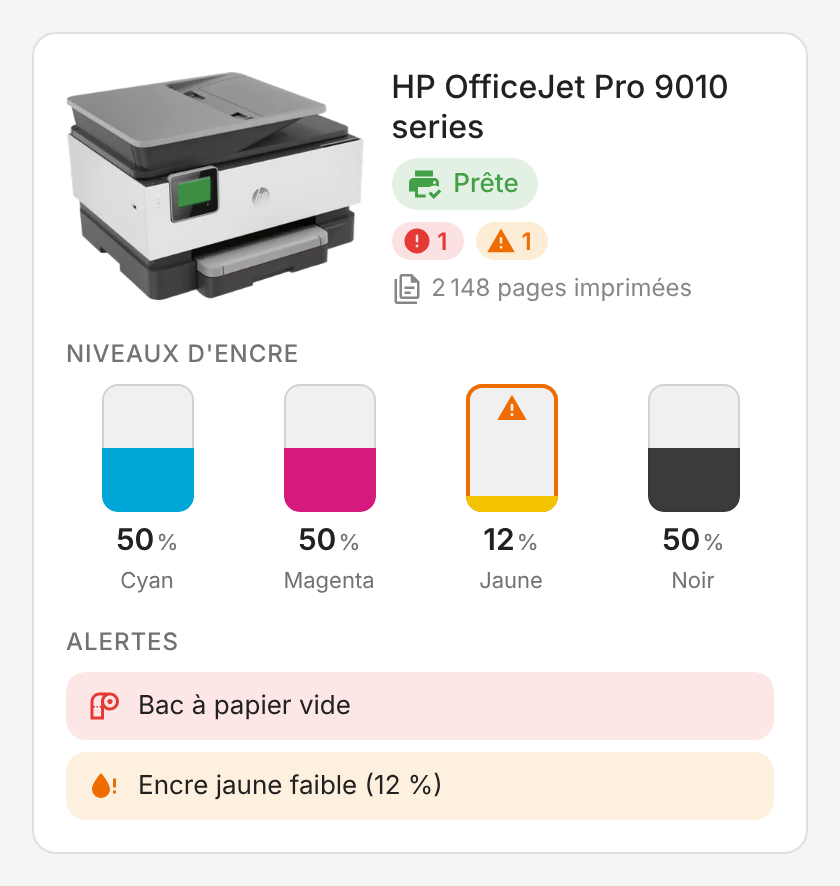
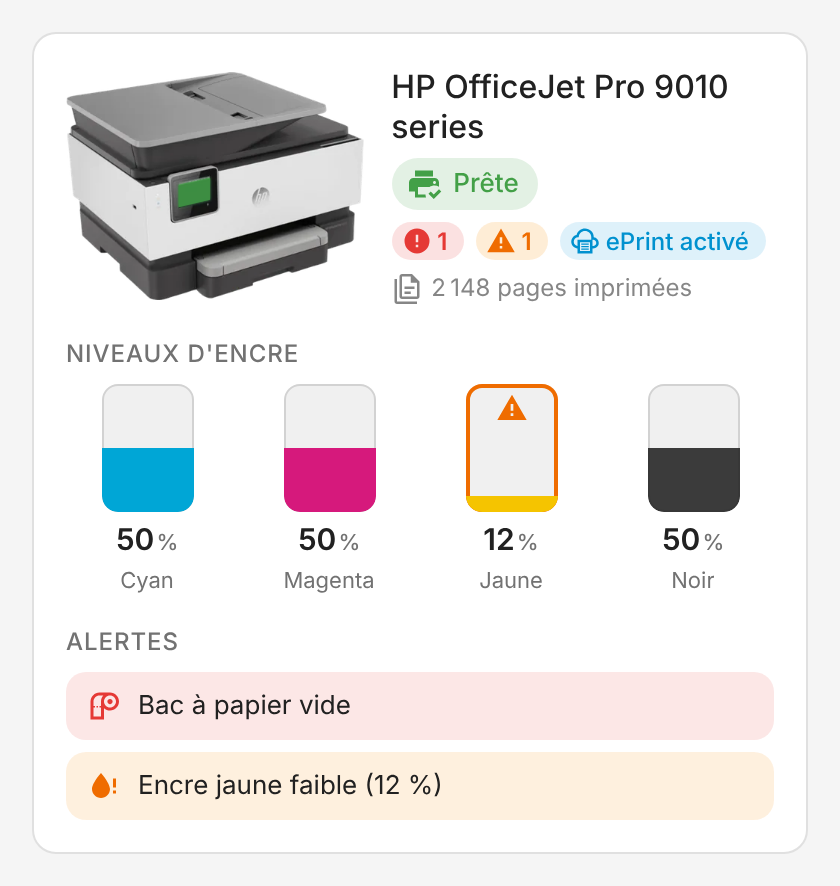
Add ePrint status — v1.1.0
Shows the ePrint state as a chip under the printer status (on, off or
not registered), from the HP Printer integration's ePrint status and
registration sensors. New show_eprint option and eprint /
eprint_registration overrides, also in the visual editor.

Claude-Session: https://claude.ai/code/session_01QW9vpQr3bGi4NSbXMm6A18

Changed region(s): [[0.65, 0.2438, 0.9286, 0.3047]]

diff --git a/dist/hp-printer-card.js b/dist/hp-printer-card.js
@@ -1,4 +1,4 @@
-var HP_PRINTER_CARD_VERSION = '1.0.0';
+var HP_PRINTER_CARD_VERSION = '1.1.0';
 
 // ── i18n ──────────────────────────────────────────────────────────────────────
 var HpI18n = {
@@ -71,6 +71,12 @@ var HpI18n = {
     en_status: 'Statut',
     en_ipp: 'Capteur IPP (alertes papier, capot…)',
     en_total_pages: 'Total de pages',
+    en_eprint: 'Statut ePrint',
+    en_eprint_registration: 'Enregistrement ePrint',
+    ed_show_eprint: 'Statut ePrint',
+    ep_on: 'ePrint activé',
+    ep_off: 'ePrint désactivé',
+    ep_unregistered: 'ePrint non enregistré',
   },
   en: {
     printer: 'Printer',
@@ -140,6 +146,12 @@ var HpI18n = {
     en_status: 'Status',
     en_ipp: 'IPP sensor (paper, cover… alerts)',
     en_total_pages: 'Total pages',
+    en_eprint: 'ePrint status',
+    en_eprint_registration: 'ePrint registration',
+    ed_show_eprint: 'ePrint status',
+    ep_on: 'ePrint on',
+    ep_off: 'ePrint off',
+    ep_unregistered: 'ePrint not registered',
   },
 };
 
@@ -366,7 +378,7 @@ function hpFindIppSensor(hass, mainId) {
 
 // ── Card ─────────────────────────────────────────────────────────────────────
 var HP_DEFAULTS = {
-  show_image: true, show_inks: true, show_alerts: true, show_stats: true, show_expired: false, low_threshold: 15,
+  show_image: true, show_inks: true, show_alerts: true, show_stats: true, show_eprint: true, show_expired: false, low_threshold: 15,
 };
 
 class HpPrinterCard extends HTMLElement {
@@ -413,11 +425,23 @@ class HpPrinterCard extends HTMLElement {
 
     var main = hpEntitiesOf(hass, [deviceId]);
     var status = over.status || hpPick(main, hass, function (eid, s) { return eid.indexOf('sensor.') === 0 && hpIsHpStatus(s); });
-    var r = { deviceId: deviceId, kind: 'hp', status: status, inks: [], ipp: over.ipp, total_pages: over.total_pages };
+    var r = { deviceId: deviceId, kind: 'hp', status: status, inks: [], ipp: over.ipp, total_pages: over.total_pages,
+      eprint: over.eprint, eprint_registration: over.eprint_registration };
 
     if (status && hpIsHpStatus(hass.states[status])) {
       var subs = hpSubDevices(hass, deviceId);
       r.inks = hpHpInks(hass, subs);
+      // ePrint (HP cloud printing): "ePrint status" (connectivity) and "ePrint registered" binary sensors.
+      var ep = main.filter(function (e) { return e.entity_id.indexOf('binary_sensor.') === 0 && /eprint/.test(e.entity_id); });
+      if (!r.eprint) {
+        r.eprint = hpPick(ep, hass, function (eid, s) { return s.attributes.device_class === 'connectivity'; }) ||
+          hpPick(ep, hass, function (eid) { return /(statut|status)/.test(eid); });
+      }
+      if (!r.eprint_registration) {
+        r.eprint_registration = hpPick(ep, hass, function (eid, s) {
+          return eid !== r.eprint && (/(registr|enregistr)/.test(eid) || /registered/.test(String(s.attributes.state)));
+        });
+      }
       if (!r.ipp) r.ipp = hpFindIppSensor(hass, deviceId);
       if (!r.total_pages) {
         var all = hpEntitiesOf(hass, subs);
@@ -437,7 +461,7 @@ class HpPrinterCard extends HTMLElement {
   }
 
   _ids(r) {
-    var ids = [r.status, r.ipp, r.total_pages];
+    var ids = [r.status, r.ipp, r.total_pages, r.eprint, r.eprint_registration];
     r.inks.forEach(function (i) { ids.push(i.level, i.status, i.expiry, i.pages_left); });
     return ids.filter(Boolean);
   }
@@ -585,6 +609,13 @@ class HpPrinterCard extends HTMLElement {
       if (errors) chips.push('<span class="chip error"><ha-icon icon="mdi:alert-circle"></ha-icon>' + errors + '</span>');
       if (warns) chips.push('<span class="chip warn"><ha-icon icon="mdi:alert"></ha-icon>' + warns + '</span>');
     }
+    if (!offline && c.show_eprint && this._avail(r.eprint)) {
+      var epOn = this._val(r.eprint) === 'on';
+      var epReg = !r.eprint_registration || !this._avail(r.eprint_registration) || this._val(r.eprint_registration) === 'on';
+      var epKey = !epReg ? 'ep_unregistered' : (epOn ? 'ep_on' : 'ep_off');
+      chips.push('<span class="chip ' + (epOn && epReg ? 'on' : 'muted') + '"><ha-icon icon="' +
+        (epOn && epReg ? 'mdi:cloud-print-outline' : 'mdi:cloud-off-outline') + '"></ha-icon>' + this._t(epKey) + '</span>');
+    }
 
     var sub = '';
     if (offline) {
@@ -667,6 +698,9 @@ class HpPrinterCard extends HTMLElement {
       '.chip ha-icon { --mdc-icon-size: 15px; }' +
       '.chip.error { background: rgba(229,57,53,0.15); color: #e53935; }' +
       '.chip.warn { background: rgba(251,140,0,0.16); color: #ef6c00; }' +
+      '.chip.on, .chip.muted { font-weight: 500; padding-right: 9px; }' +
+      '.chip.on { background: rgba(0,150,214,0.13); color: #0091cf; }' +
+      '.chip.muted { background: var(--secondary-background-color, rgba(128,128,128,0.12)); color: var(--secondary-text-color); }' +
       '.sub { font-size: 12px; color: var(--secondary-text-color); line-height: 1.4; display: flex; align-items: center; gap: 5px; flex-wrap: wrap; }' +
       '.sub ha-icon { --mdc-icon-size: 15px; }' +
       '.muted { color: var(--secondary-text-color); opacity: 0.85; }' +
@@ -729,6 +763,7 @@ class HpPrinterCardEditor extends HTMLElement {
           { name: 'show_inks', selector: { boolean: {} } },
           { name: 'show_alerts', selector: { boolean: {} } },
           { name: 'show_stats', selector: { boolean: {} } },
+          { name: 'show_eprint', selector: { boolean: {} } },
         ],
       },
       { name: 'low_threshold', selector: { number: { min: 0, max: 50, step: 1, mode: 'slider', unit_of_measurement: '%' } } },
@@ -744,6 +779,8 @@ class HpPrinterCardEditor extends HTMLElement {
           { name: 'status', selector: { entity: { domain: 'sensor' } } },
           { name: 'ipp', selector: { entity: { domain: 'sensor' } } },
           { name: 'total_pages', selector: { entity: { domain: 'sensor' } } },
+          { name: 'eprint', selector: { entity: { domain: 'binary_sensor' } } },
+          { name: 'eprint_registration', selector: { entity: { domain: 'binary_sensor' } } },
         ],
       },
     ];
@@ -760,7 +797,7 @@ class HpPrinterCardEditor extends HTMLElement {
     this._form.hass = this._hass;
     this._form.schema = this._schema();
     this._form.computeLabel = (s) => {
-      if (['status', 'ipp', 'total_pages'].indexOf(s.name) >= 0) return hpT(lang, 'en_' + s.name);
+      if (['status', 'ipp', 'total_pages', 'eprint', 'eprint_registration'].indexOf(s.name) >= 0) return hpT(lang, 'en_' + s.name);
       return hpT(lang, 'ed_' + s.name);
     };
     this._form.computeHelper = (s) => {

diff --git a/README.md b/README.md
@@ -23,8 +23,9 @@ Pick the printer, the card finds all its entities by itself.
 - **Status** with color: ready, sleeping, printing, scanning, copying, cancelling, stopped. The printer's control panel lights up in the status color and pulses while it works
 - **Ink levels**: one tank per cartridge, in the printer's slot order, with a warning below a configurable threshold
 - **Alerts**: low or nearly empty ink, missing / used / non-HP / damaged cartridge, printhead problem, and, through the IPP integration, empty paper tray, paper jam, open cover…
+- **ePrint status**: on, off or not registered (HP cloud printing)
 - Page counter
-- Automatic entity discovery from the device (works with English or French entity IDs), status, IPP sensor and page counter can be overridden
+- Automatic entity discovery from the device (works with English or French entity IDs), status, IPP sensor, ePrint sensors and page counter can be overridden
 - Visual editor in the dashboard UI (no YAML needed)
 - English and French, follows the Home Assistant language
 - Light and dark theme compatible
@@ -86,6 +87,7 @@ show_image: true
 show_inks: true
 show_alerts: true
 show_stats: true
+show_eprint: true
 show_expired: false
 low_threshold: 15
 image: /local/my-printer.png
@@ -94,6 +96,8 @@ entities:
   status: sensor.hp_officejet_pro_9010_series_192_168_1_119_status
   ipp: sensor.hp_officejet_pro_9010_series
   total_pages: sensor.hp_officejet_pro_9010_series_192_168_1_119_printer_total_pages
+  eprint: binary_sensor.hp_officejet_pro_9010_series_192_168_1_119_eprint_status
+  eprint_registration: binary_sensor.hp_officejet_pro_9010_series_192_168_1_119_eprint_registered
 ```
 
 ### Options reference
@@ -107,6 +111,7 @@ entities:
 | `show_inks` | ❌ | `true` | Show the ink levels |
 | `show_alerts` | ❌ | `true` | Show the alerts |
 | `show_stats` | ❌ | `true` | Show the total page counter |
+| `show_eprint` | ❌ | `true` | Show the ePrint status (HP Printer integration only) |
 | `show_expired` | ❌ | `false` | Also alert when a cartridge's warranty date has passed |
 | `low_threshold` | ❌ | `15` | Ink level (%) at or below which a cartridge is flagged as low; at 5 % or less it is nearly empty |
 | `image` | ❌ | Bundled picture | URL of your own printer picture, e.g. `/local/printer.png` |
@@ -122,6 +127,8 @@ Keys accepted under `entities`:
 | `status` | `sensor` | Printer status (HP Printer *Status* sensor, or the IPP printer sensor) |
 | `ipp` | `sensor` | IPP printer sensor, read for paper, jam and cover alerts |
 | `total_pages` | `sensor` | Page counter |
+| `eprint` | `binary_sensor` | ePrint status (on / off) |
+| `eprint_registration` | `binary_sensor` | ePrint registration, shows *not registered* when off |
 
 Cartridges are always found from the printer's devices.
 

diff --git a/CHANGELOG.md b/CHANGELOG.md
@@ -1,5 +1,12 @@
 # Changelog
 
+## 1.1.0
+
+### What's new
+- ePrint status chip under the printer status: on, off, or not registered, read from the HP Printer integration's *ePrint status* and *ePrint registered* sensors.
+- New `show_eprint` option (on by default), also in the visual editor.
+- `eprint` and `eprint_registration` entity overrides.
+
 ## 1.0.0
 
 First public release.
